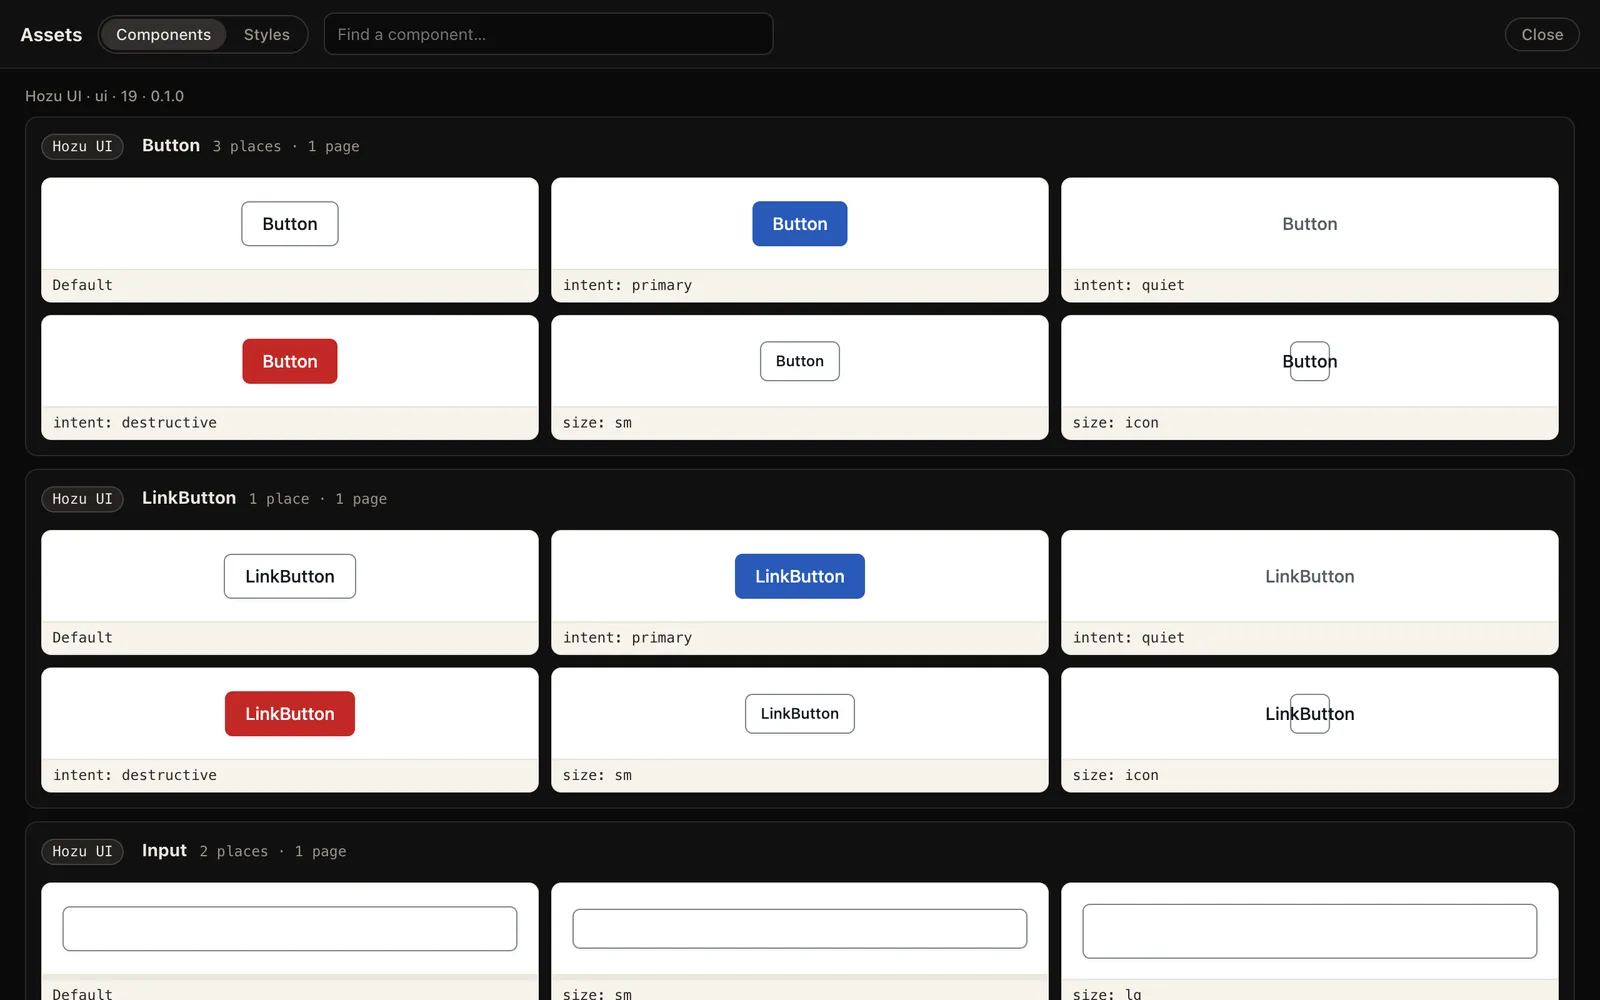
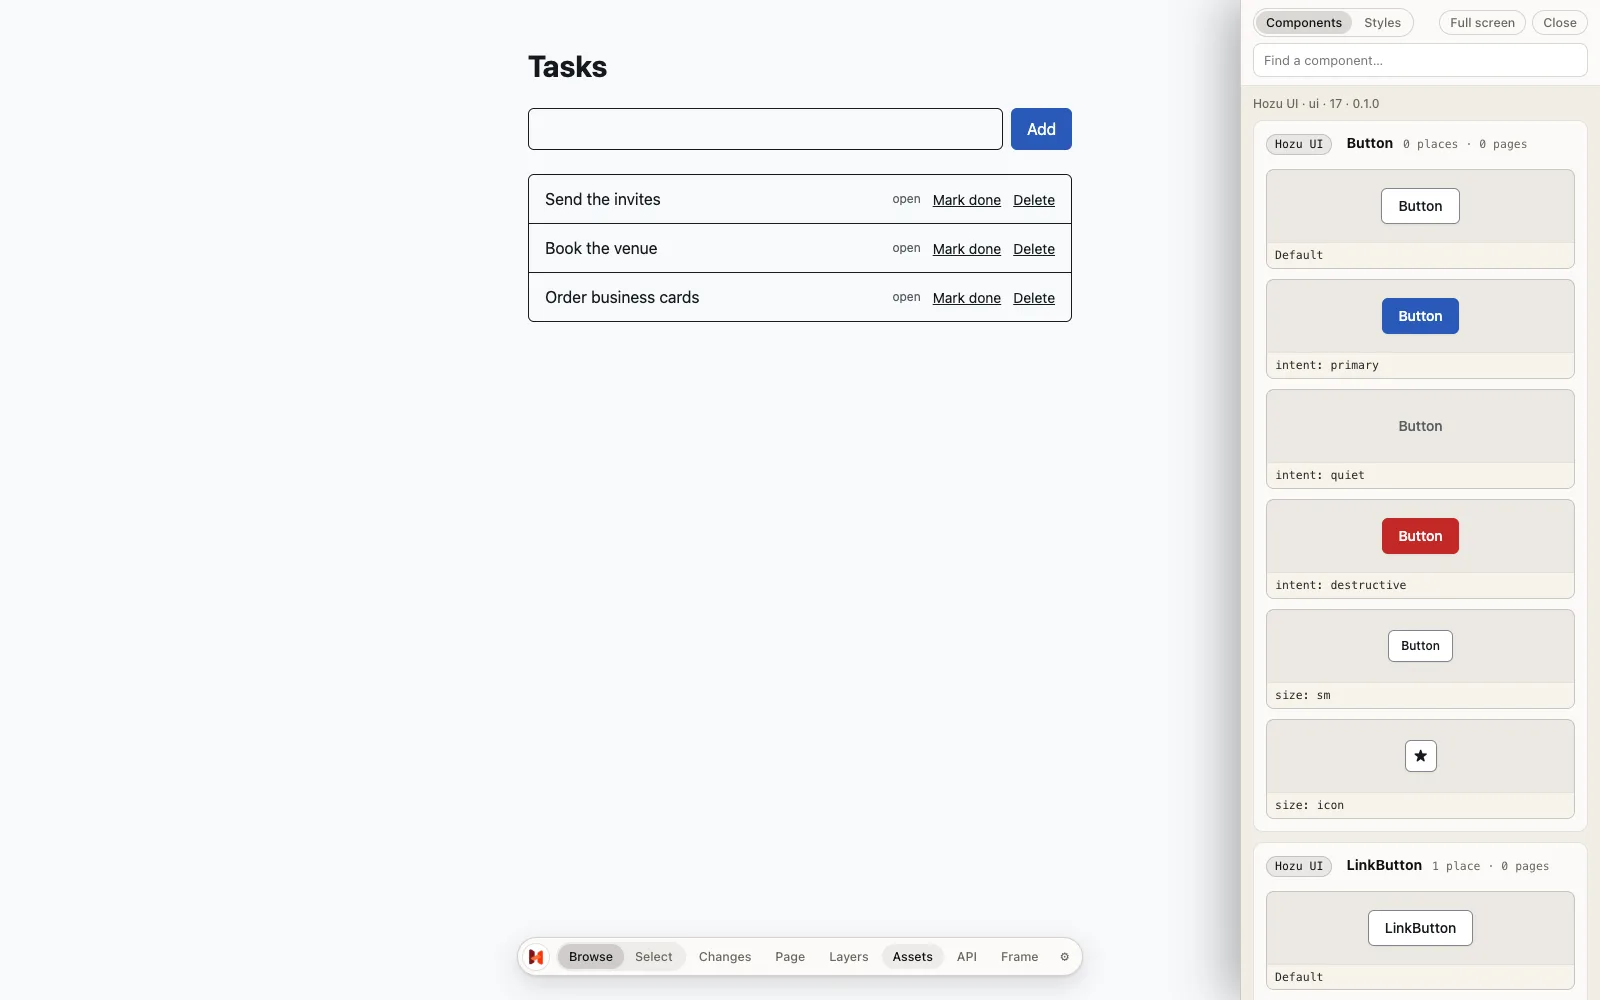
Site: DevTools section shows dragging (Assets docked, the live preview while dragging, the pending component and its request); the site does not copy the kit's previews.ts, which needs 1.0

diff --git a/site/features/site/devtools.ts b/site/features/site/devtools.ts
@@ -68,23 +68,23 @@ export const devtoolsSection = part((page: boolean) =>
         ),
         page ? ui.h1({ id: 'devtools-title', class: title }, headline) : ui.h2({ id: 'devtools-title', class: title }, headline),
         ui.p({ class: 'mt-6 max-w-2xl text-lg text-paper/85 text-pretty' }, [
-          'DevTools knows Hozu UI. Pick a component from the kit, put it where you want it on your running page, and say what it is for. Your agent gets a request with the file, the line and the exact call to write.',
+          'DevTools knows Hozu UI. Drag a component from the kit onto your running page, see it where it will land, and say what it is for. Your agent gets a request with the file, the line and the exact call to write.',
         ]),
         ui.ol({ class: 'mt-10 grid gap-4 sm:grid-cols-2 lg:grid-cols-4' }, [
           step(
             '01',
             'Open Assets',
-            'Run npx hozu dev, open DevTools, then Assets. Hozu UI comes first: the components you have, and the ones you can still add.',
+            'Run npx hozu dev, open DevTools, then Assets. It docks beside your page. Hozu UI comes first: every component and variant, with examples.',
           ),
-          step('02', 'Place it', 'Select a part of your page. Choose a component and a variant, then Place before, after or inside the part.'),
+          step('02', 'Drag it in', 'Drag a variant onto the page. It shows where it would land before you let go. Click it later to edit, or drag it again.'),
           step('03', 'Say why', 'Write a note in your words. Or change a component itself: one request edits it everywhere it is used.'),
           step('04', 'Hand it over', 'Copy for AI or Save request. Your agent installs what is missing, places it, then runs hozu check.'),
         ]),
         ui.div({ class: 'mt-14' }, [
           shot(
             ui.asset(new URL('../../assets/dt-assets.webp', import.meta.url)),
-            'Hozu DevTools Assets board: the Hozu UI kit first, with Button and LinkButton in each intent and size',
-            'Assets → Hozu UI: every component and variant, drawn from your app.',
+            'Hozu DevTools Assets docked beside a task list page: the Hozu UI kit first, with Button in each intent and size',
+            'Assets docks beside your page: every component and variant, drawn from your app.',
           ),
         ]),
         ui.div(
@@ -94,13 +94,13 @@ export const devtoolsSection = part((page: boolean) =>
           [
             shot(
               ui.asset(new URL('../../assets/dt-place.webp', import.meta.url)),
-              'The Button detail in DevTools: its variants and properties, the intent set to primary, a note, and Place before, after and inside',
-              'Next to the selected heading: intent primary, a note, Place after.',
+              'A primary Button dragged under the Tasks heading: the page shows it in place, labelled Place after Heading Tasks',
+              'While you drag, the page shows the component where it would land.',
             ),
             shot(
               ui.asset(new URL('../../assets/dt-request.webp', import.meta.url)),
-              'The DevTools request panel with one item: Add ui.Button intent primary after the Tasks heading, and Copy for AI',
-              'The request holds the change. Copy for AI, or Save request.',
+              'The placed Button marked Pending on the page, and the Changes panel with one item: Add ui.Button intent primary after the Tasks heading, its note, and Copy for AI',
+              'It stays on the page as Pending until your agent has built it. Copy for AI, or Save request.',
             ),
           ],
         ),

diff --git a/site/features/site/gallery.ts b/site/features/site/gallery.ts
@@ -255,7 +255,7 @@ const specimen = part(
                     },
                     ['With DevTools'],
                   ),
-                  ui.dd({ class: 'text-sm' }, [`Assets → Hozu UI → ${installs[0]}, then Place it next to the part you selected.`]),
+                  ui.dd({ class: 'text-sm' }, [`Assets → Hozu UI → ${installs[0]}, then drag it onto your page where you want it.`]),
                 ]),
               ],
             ),
